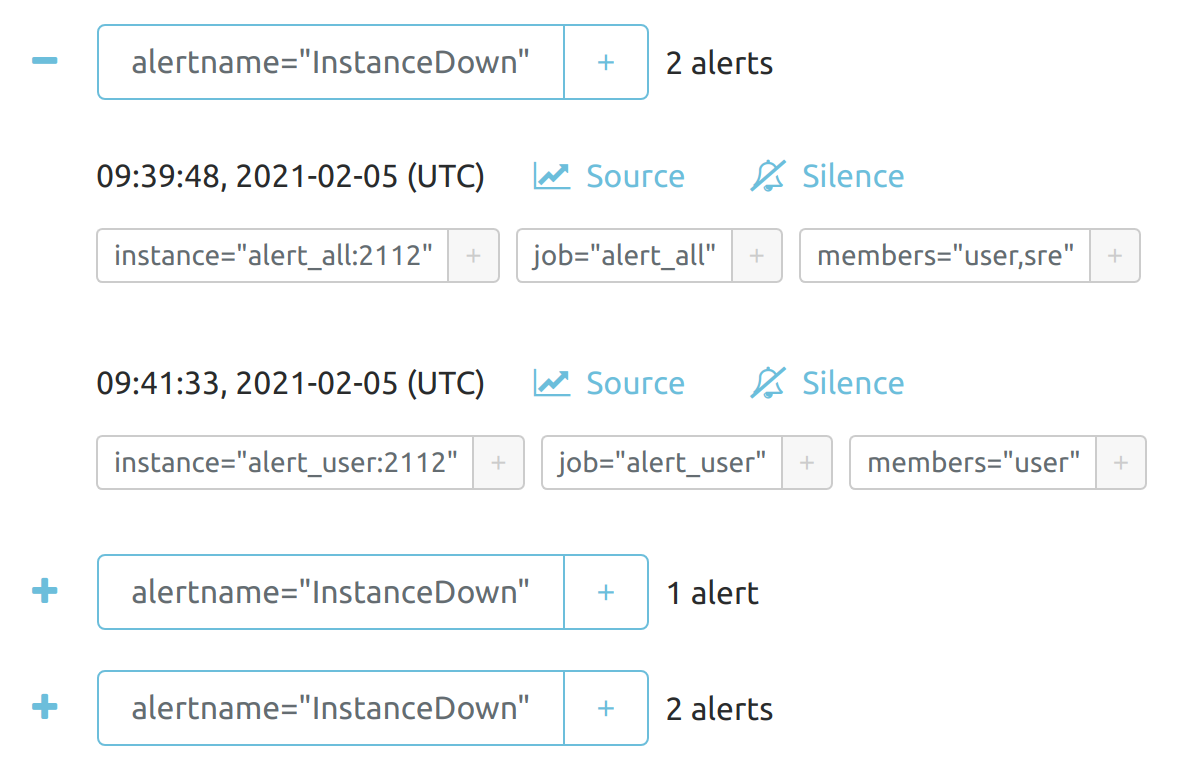
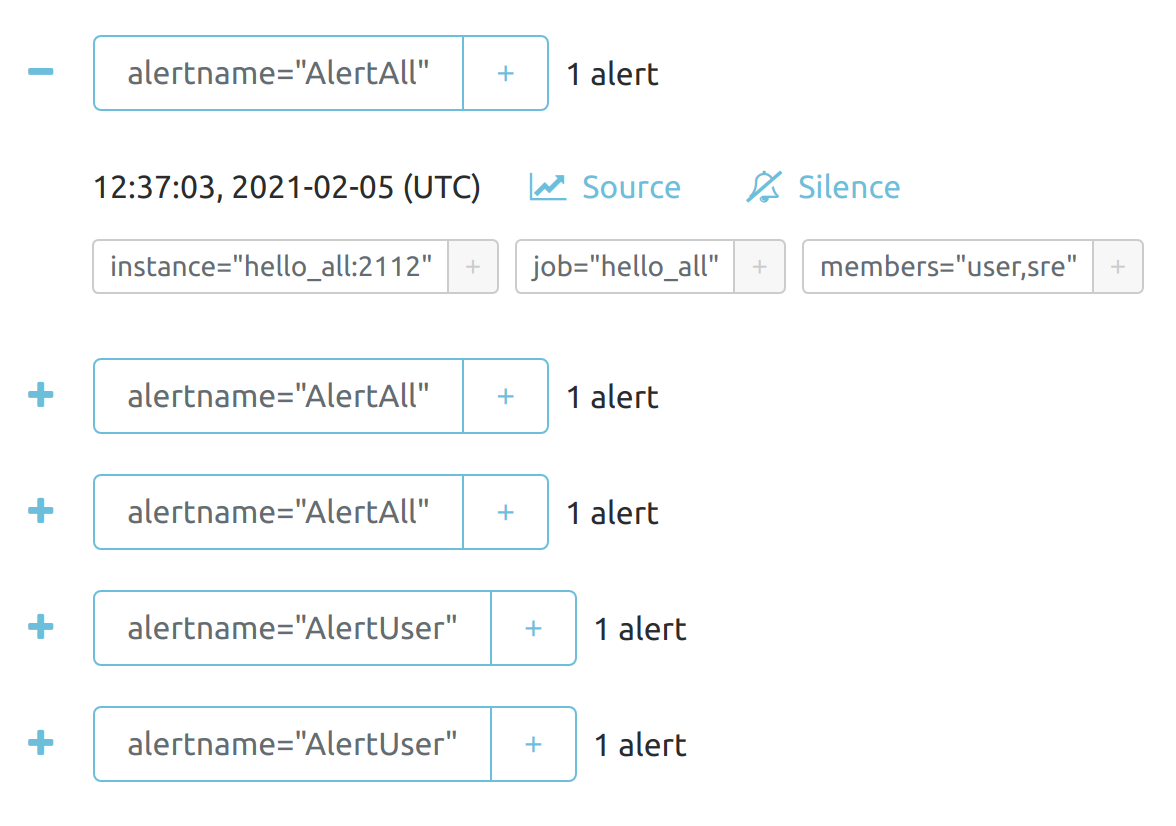
alert_* -> hello_*

diff --git a/README.md b/README.md
@@ -1,6 +1,6 @@
 # Alertmanager Playground
 
-In this playground, a Prometheus [Alertmanager](https://github.com/prometheus/alertmanager) handles alerts thrown by a running Prometheus instance. The Alertmanager in this example is configured with one alert (specified in an [`alert.rules`](./prometheus/alert.rules) file) that Prometheus fires whenever services `alert_all`, `alert_user` and `alert_sre` of the same [`hello`](./hello/main.go) app—a simple web app—are down for more than 10 seconds. If Prometheus alerts the Alertmanager that any `alert_*` service is down, it will selectivity `POST` webhooks to the [`webhook_*`](./webhook/main.go) services—`webhook_sre`, `webhook_user` and `webhook_admin`, which will then log the alert sent by the Alertmanager to stdout.
+In this playground, a Prometheus [Alertmanager](https://github.com/prometheus/alertmanager) handles alerts thrown by a running Prometheus instance. The Alertmanager in this example is configured with one alert (specified in an [`alert.rules`](./prometheus/alert.rules) file) that Prometheus fires whenever services `hello_all`, `hello_user` and `hello_sre` of the same [`hello`](./hello/main.go) app—a simple web app—are down for more than 10 seconds. If Prometheus alerts the Alertmanager that any `hello_*` service is down, it will selectivity `POST` webhooks to the [`webhook_*`](./webhook/main.go) services—`webhook_sre`, `webhook_user` and `webhook_admin`, which will then log the alert sent by the Alertmanager to stdout.
 
 ## Prerequisites
 
@@ -18,31 +18,31 @@ This will start up 4 kinds of services:
 
 Service | Description
 :-------|:-----------
-`prometheus` | A Prometheus instance that's [configured](./prometheus/alert.rules) to alert the Alertmanager whenever the `alert_*` web service has been down for more than 10 seconds
-`alertmanager` | An Alertmanager instance that's configured to `POST` an alert message to the `webhook` service whenever Prometheus alerts Alertmanager that the `alert_*` service is down
-`alert_*` | Instantiated from a simple [web app](./hello/main.go) written in Go. The `hello` web app has just two endpoints: a `/hello` endpoint that returns a `{"hello":"world"}` JSON object and a `/metrics` endpoint for Prometheus instrumentation
+`prometheus` | A Prometheus instance that's [configured](./prometheus/alert.rules) to alert the Alertmanager whenever the `hello_*` web service has been down for more than 10 seconds
+`alertmanager` | An Alertmanager instance that's configured to `POST` an alert message to the `webhook` service whenever Prometheus alerts Alertmanager that the `hello_*` service is down
+`hello_*` | Instantiated from a simple [web app](./hello/main.go) written in Go. The `hello` web app has just two endpoints: a `/hello` endpoint that returns a `{"hello":"world"}` JSON object and a `/metrics` endpoint for Prometheus instrumentation
 `webhook_*` | Instantiated from a simple [web service](./webhook/main.go) written in Go. The `webhook` web service has just one `/alert` endpoint to which Alertmanager alerts are `POST`ed
 
 ## Creating Alerts
 
-When you first start up the containers, there's no alert-worthy behavior because the `alert_*` services are running as expected. You can verify this in the [Prometheus expression browser](http://localhost:9090/graph) using the [`up{job=~"alert_.*"}`](http://localhost:9090/graph?g0.range_input=1h&g0.expr=up%7Bjob%3D%22hello%22%7D&g0.tab=1) expression, which should have values of 1.
+When you first start up the containers, there's no alert-worthy behavior because the `hello_*` services are running as expected. You can verify this in the [Prometheus expression browser](http://localhost:9090/graph) using the [`up{job=~"hello_.*"}`](http://localhost:9090/graph?g0.expr=up%7Bjob%3D~%22hello_.*%22%7D&g0.tab=1&g0.stacked=0&g0.range_input=1h) expression, which should have values of 1.
 
 ### Alert All Receivers
 
-To create alerts to `webhook_user`, `webhook_sre` and `webhook_admin`, stop the service `alert_all`:
+To create alerts to `webhook_user`, `webhook_sre` and `webhook_admin`, stop the service `hello_all`:
 
 ```bash
-docker-compose stop alert_all
+docker-compose stop hello_all
 ```
 
 According to [the alert rule](./prometheus/alert.rules):
 
 ```
-- alert: InstanceDown
-  expr: up{job="alert_all"} == 0
-  for: 10s
-  labels:
-    members: "user,sre"
+  - alert: AlertAll
+    expr: up{job="hello_all"} == 0
+    for: 10s
+    labels:
+      members: "user,sre"
 ```
 
 and the related [alert manager configuration](./alertmanager/alertmanager.yml):
@@ -65,18 +65,18 @@ and the related [alert manager configuration](./alertmanager/alertmanager.yml):
 all receivers, i.e. `webhook_user`, `webhook_sre` and `webhook_admin`, will be matched and notified. Wait about 10 seconds and you should see something like this in the Docker Compose logs:
 
 ```
-alertmanager_playground_alert_all_1 exited with code 2
-webhook_admin_1    | 2021/02/05 09:39:58 Webhook [webhook_admin:5001] received: /* omitted */
-webhook_user_1     | 2021/02/05 09:39:58 Webhook [webhook_user:5001] received: /* omitted */
-webhook_sre_1      | 2021/02/05 09:39:58 Webhook [webhook_sre:5001] received: /* omitted */
+alertmanager_playground_hello_all_1 exited with code 2
+webhook_user_1     | 2021/02/05 12:37:13 Webhook [webhook_user:5001] received: /* omitted */
+webhook_admin_1    | 2021/02/05 12:37:13 Webhook [webhook_admin:5001] received: /* omitted */
+webhook_sre_1      | 2021/02/05 12:37:13 Webhook [webhook_sre:5001] received: /* omitted */
 ```
 
 ### Alert Partial Receivers
 
-To create alerts only to `webhook_user` and `webhook_admin`, stop the service `alert_user`:
+To create alerts only to `webhook_user` and `webhook_admin`, stop the service `hello_user`:
 
 ```bash
-docker-compose stop alert_user
+docker-compose stop hello_user
 ```
 
 According to [the alert rule](./prometheus/alert.rules) and the [alert manager configuration](./alertmanager/alertmanager.yml):
@@ -84,8 +84,8 @@ According to [the alert rule](./prometheus/alert.rules) and the [alert manager c
 ```
 # In prometheus/alert.rules:
 
-  - alert: InstanceDown
-    expr: up{job="alert_user"} == 0
+  - alert: AlertUser
+    expr: up{job="hello_user"} == 0
     for: 10s
     labels:
       members: "user"
@@ -110,16 +110,16 @@ According to [the alert rule](./prometheus/alert.rules) and the [alert manager c
 `webhook_user` and `webhook_admin` will be notified. Wait about 10 seconds and you should see something like this in the Docker Compose logs:
 
 ```
-alertmanager_playground_alert_user_1 exited with code 2
-webhook_user_1     | 2021/02/05 09:41:38 Webhook [webhook_user:5001] received: /* omitted */
-webhook_admin_1    | 2021/02/05 09:41:38 Webhook [webhook_admin:5001] received: /* omitted */
+alertmanager_playground_hello_user_1 exited with code 2
+webhook_admin_1    | 2021/02/05 12:40:13 Webhook [webhook_admin:5001] received: /* omitted */
+webhook_user_1     | 2021/02/05 12:40:13 Webhook [webhook_user:5001] received: /* omitted */
 ```
 
 You can also see the alert in the [Alertmanager UI](http://localhost:9093/#/alerts). It should look like this:
 
 ![Alertmanager alert](./alert.png)
 
-In the Prometheus expression browser, [`up{job=~"alert_.*"}`](http://localhost:9090/graph?g0.expr=up%7Bjob%3D~%22alert_.*%22%7D&g0.tab=1&g0.stacked=0&g0.range_input=1h) should now have two values of 0 and one value of 1.
+In the Prometheus expression browser, [`up{job=~"hello_.*"}`](http://localhost:9090/graph?g0.expr=up%7Bjob%3D~%22hello_.*%22%7D&g0.tab=1&g0.stacked=0&g0.range_input=1h) should now have two values of 0 and one value of 1.
 
 ![Prometheus UI](./prom_ui.png)
 
